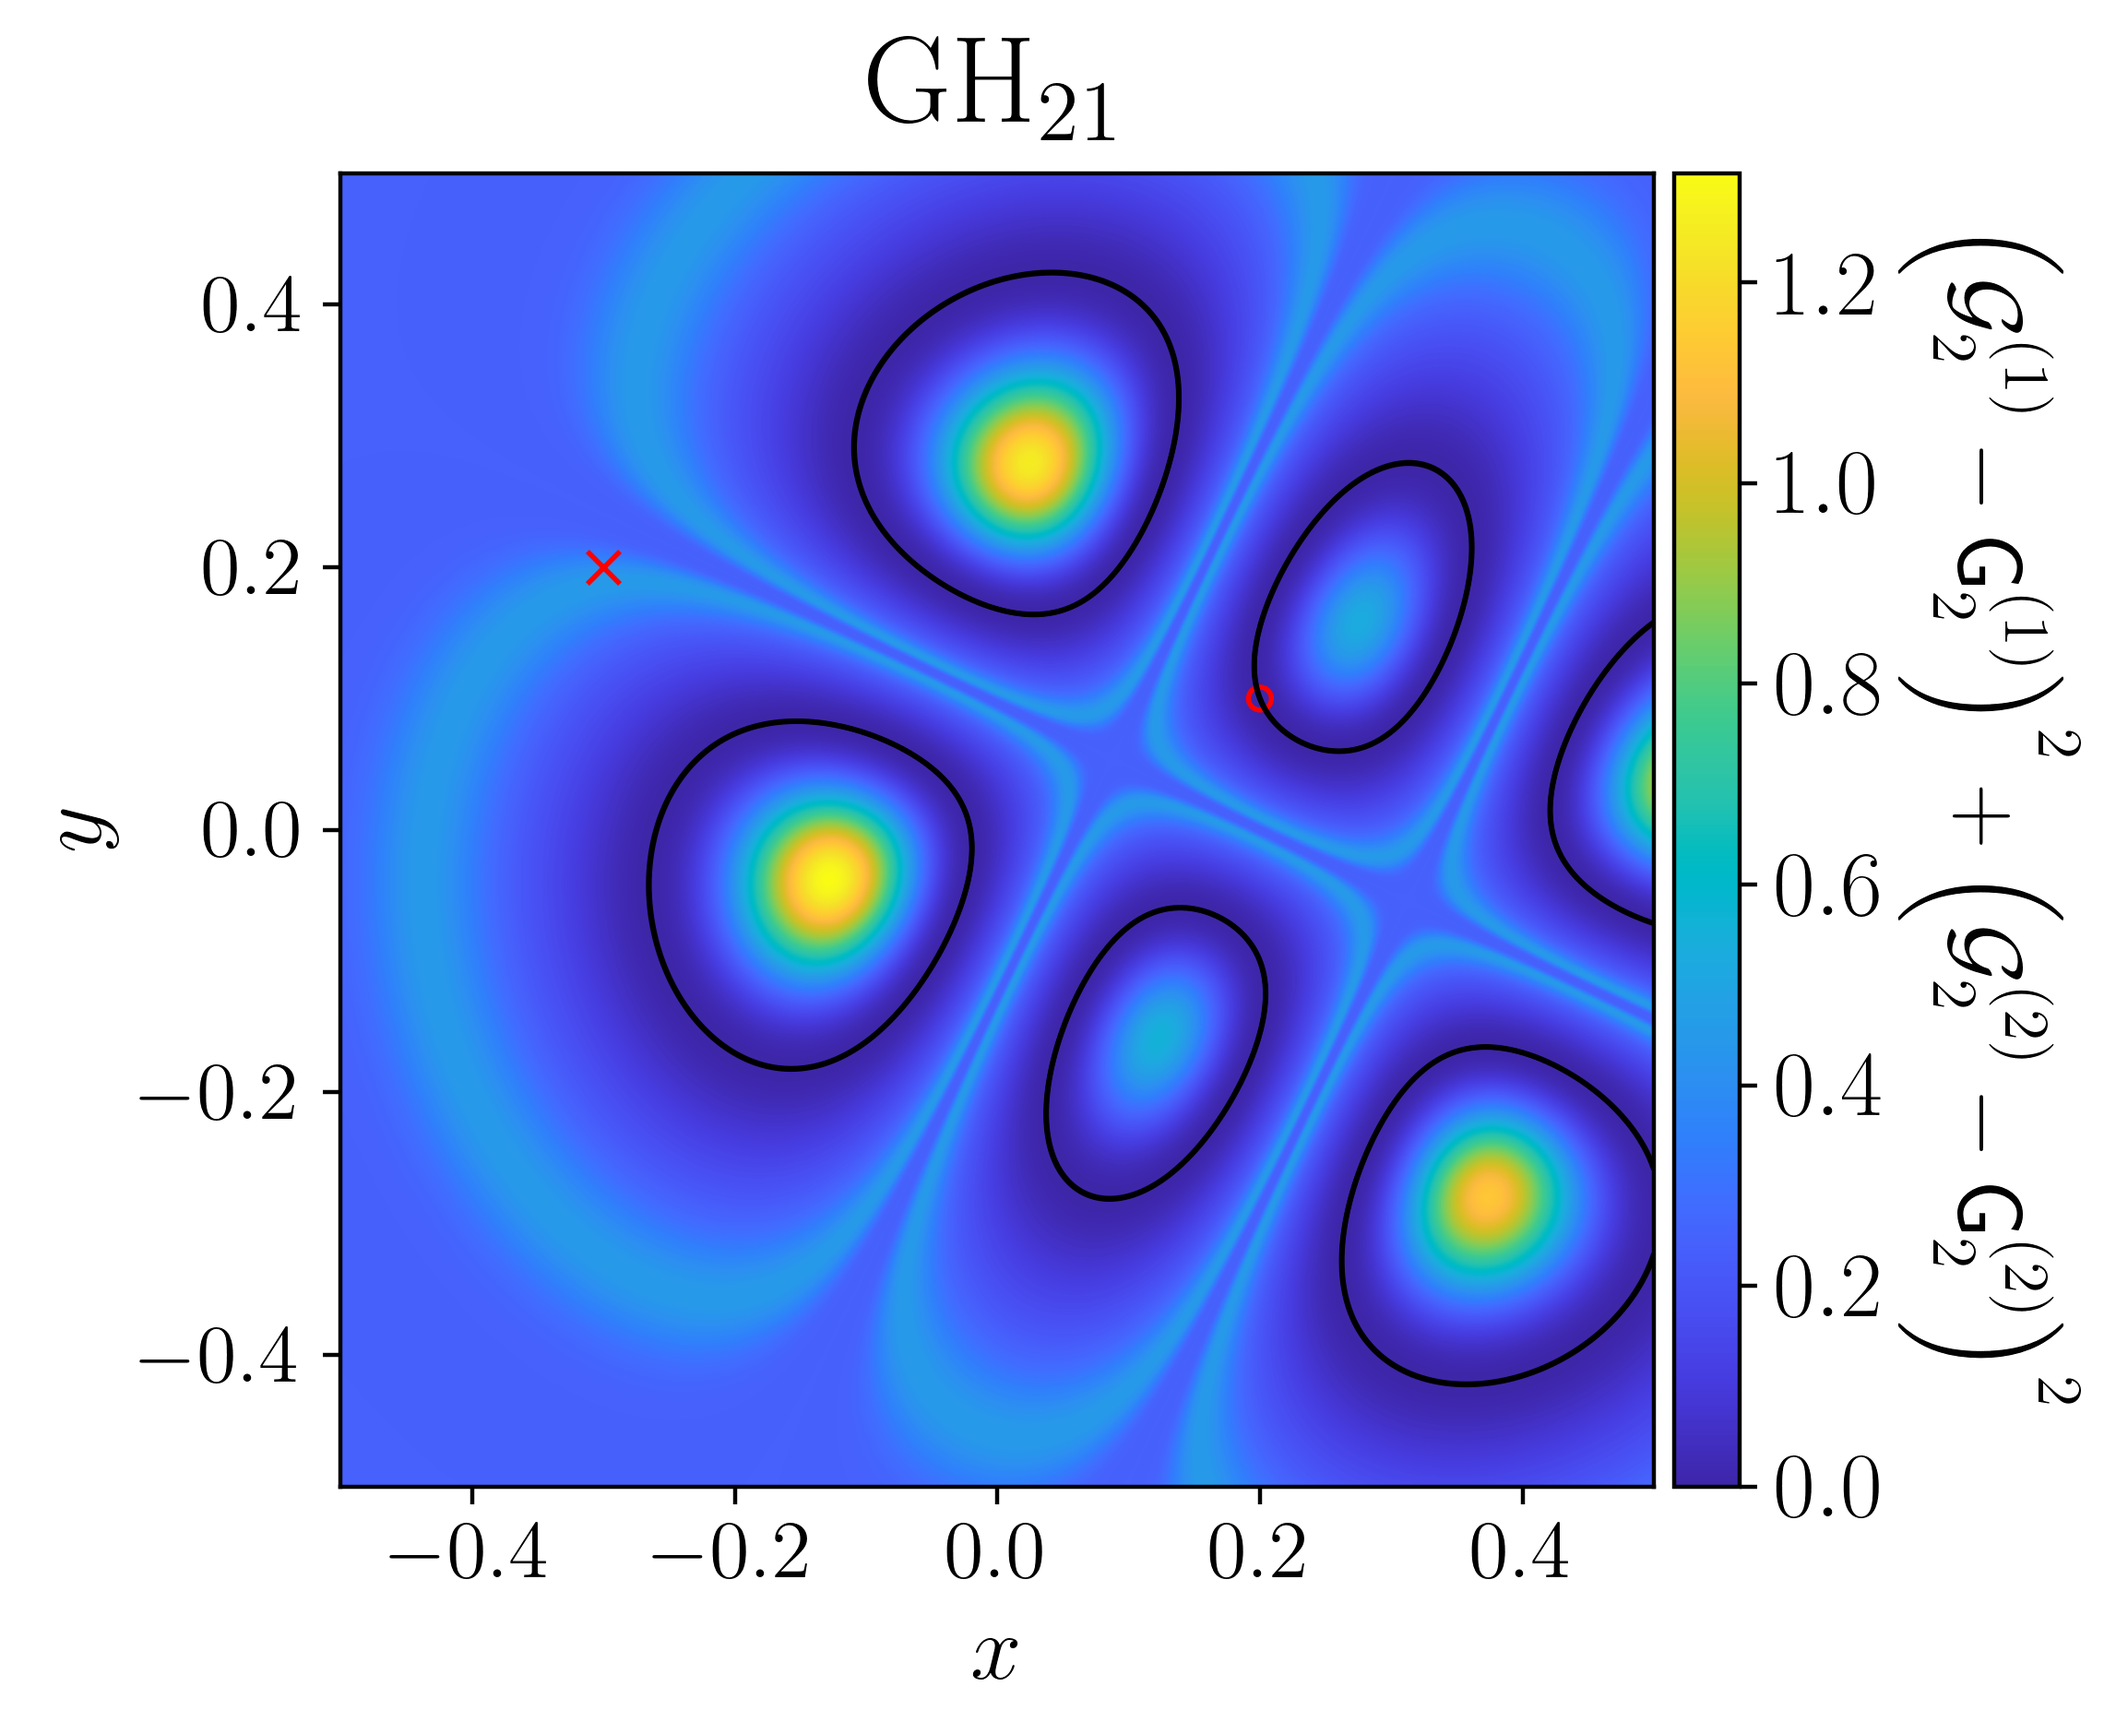
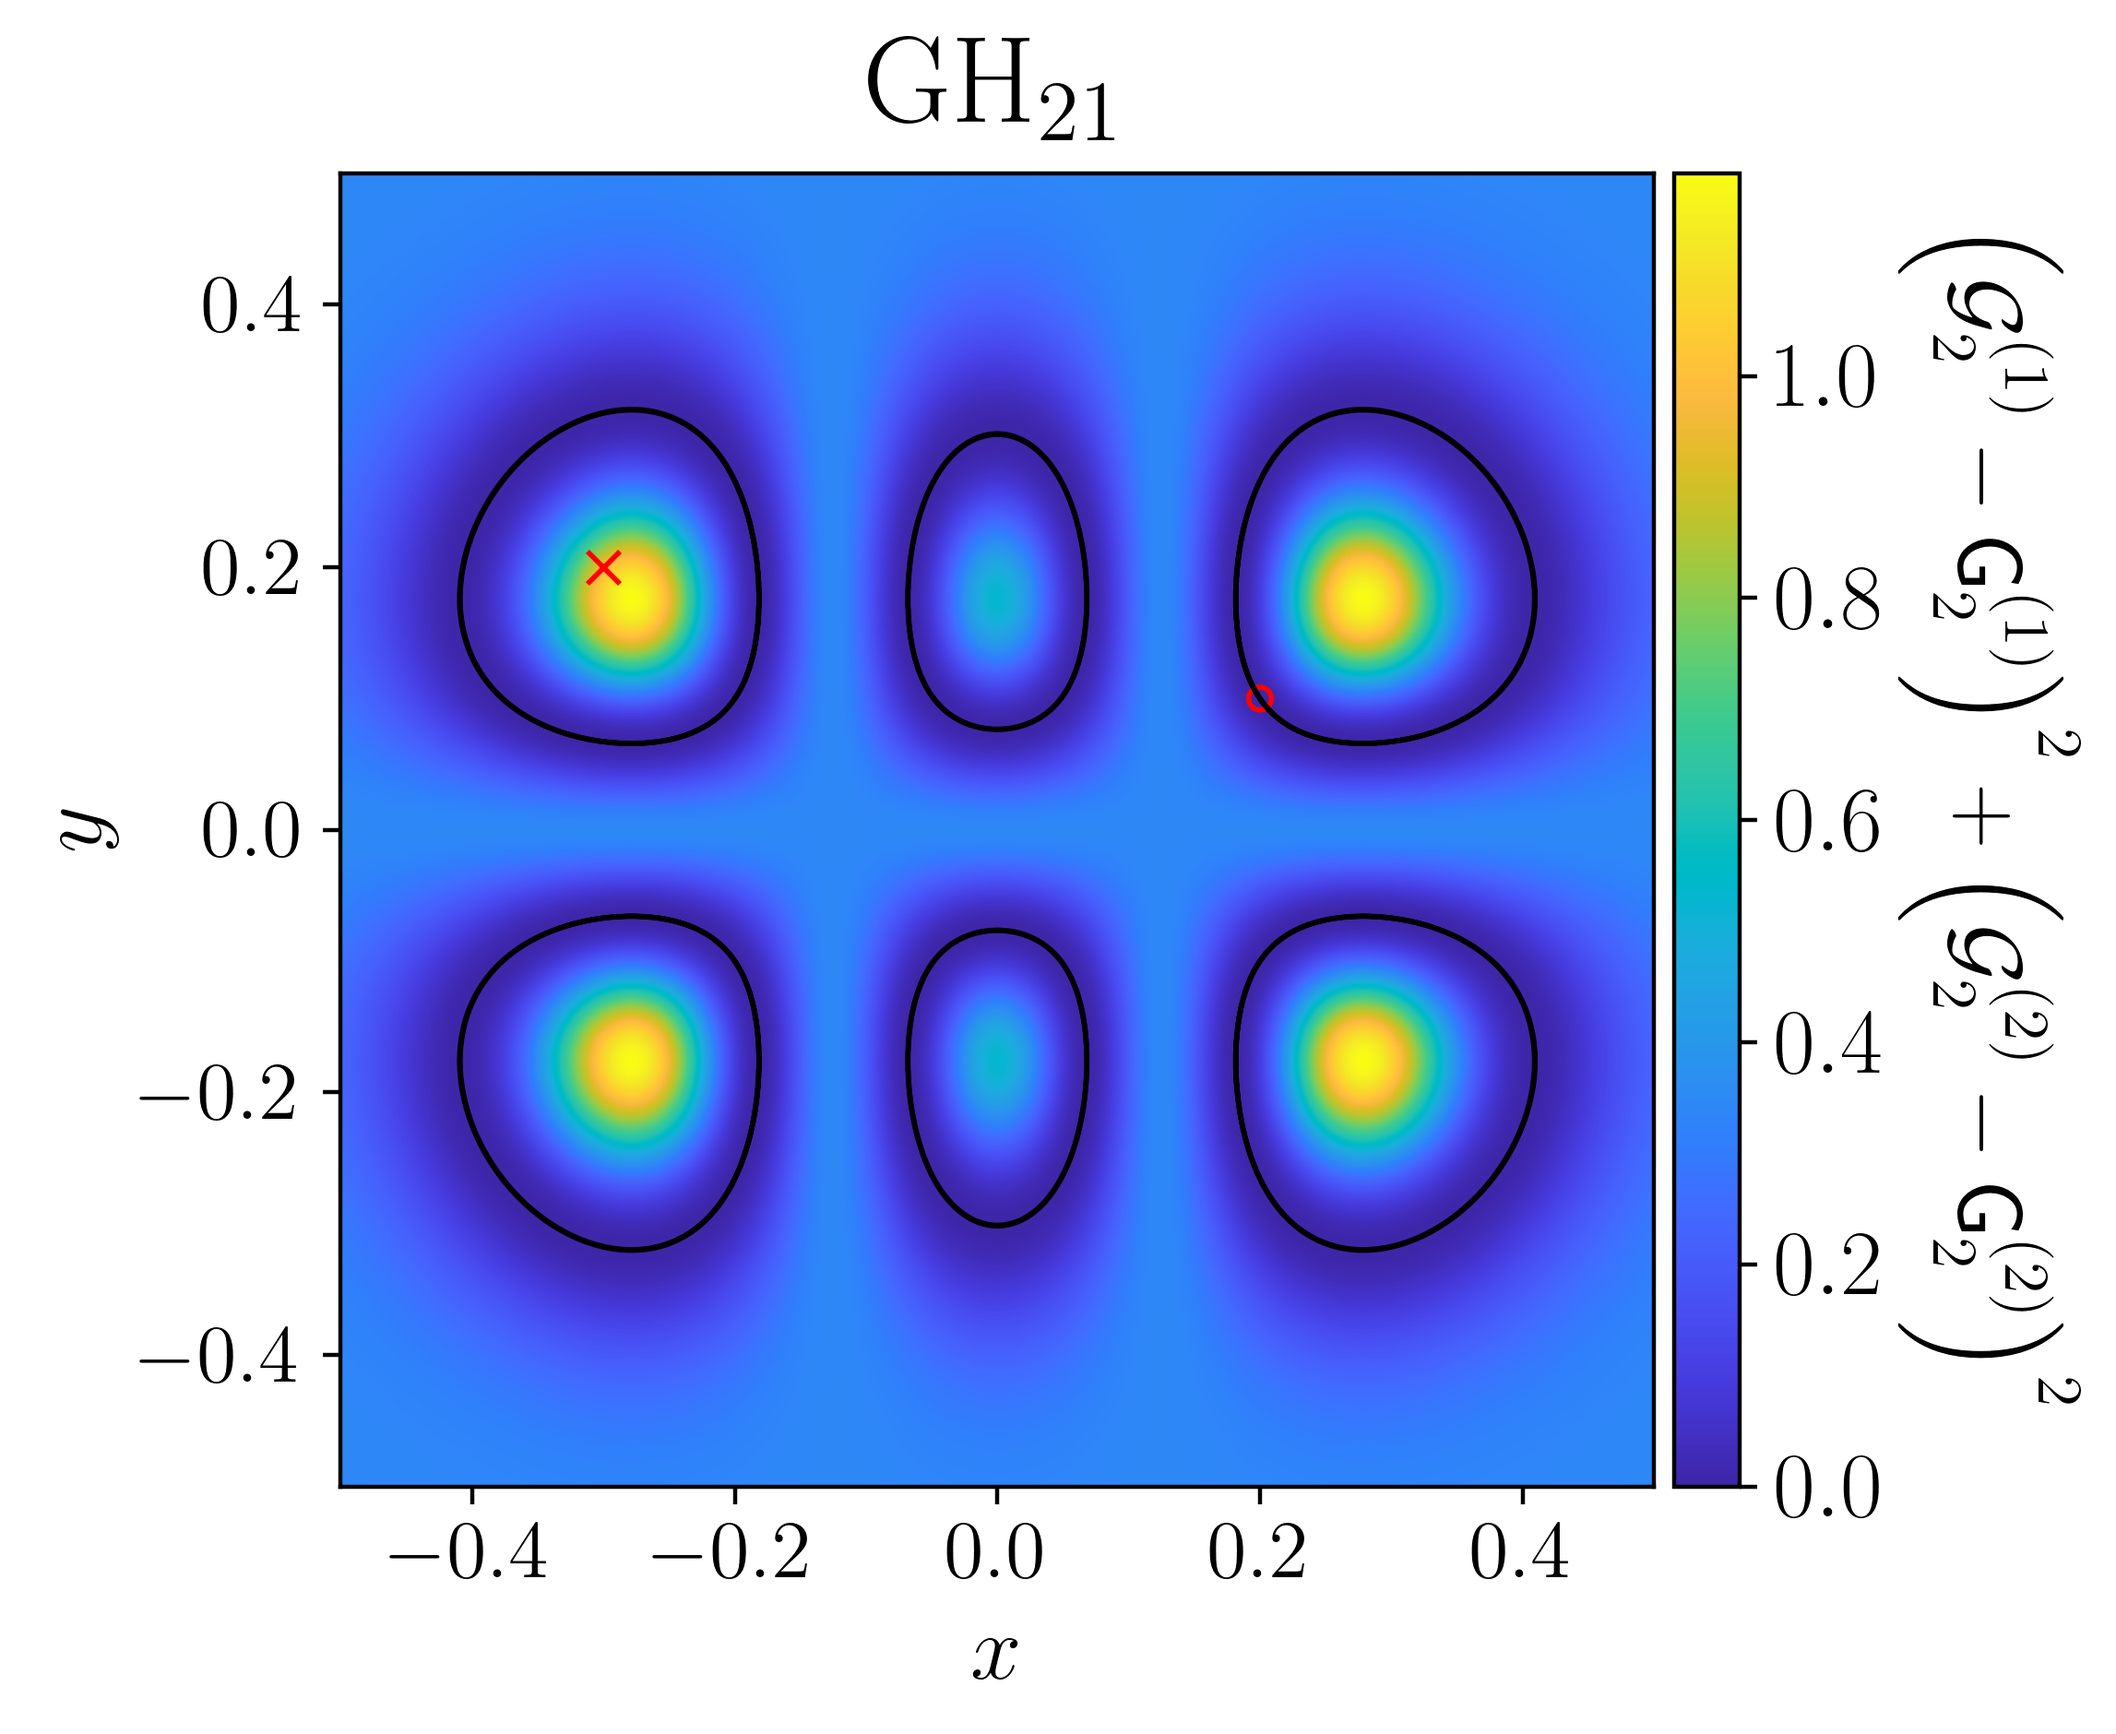
stuff

diff --git a/worboy_recreation.py b/worboy_recreation.py
@@ -77,9 +77,7 @@ def main() -> None:
             
         return np.sum((g_1_truth - g_1_guess)**2) + np.sum((g_2_truth - g_2_guess)**2)
     
-    optimization_lambda = lambda guess: rss(guess)
-    
-    trials = 200
+    trials = 1000
     
     x_opt = np.ndarray((trials,5))
     
@@ -88,6 +86,11 @@ def main() -> None:
         print(trial_idx)
         
         # print(trial_idx)
+        
+        g_1_noise = g_1_true + 0.1 * np.random.randn(3,1)
+        g_2_noise = g_2_true + 0.1 * np.random.randn(3,1)
+        
+        optimization_lambda = lambda guess: rss(guess, g_1_noise, g_2_noise)
     
         x_0 = 0.25 * np.random.randn(5,1)
         x_0[4] = 0.5
@@ -96,28 +99,30 @@ def main() -> None:
         
         # x_0 = np.array([*e_1.xy,*e_2.xy,e_2.relative_brightness])
         
-        # opt_result = minimize(
-        #     fun=optimization_lambda,
-        #     x0=x_0,
-        #     method='Nelder-Mead',
-        #     bounds=[(-1,1),(-1,1),(-1,1),(-1,1),(0,1)]
-        # )
+        opt_result = minimize(
+            fun=optimization_lambda,
+            x0=x_0,
+            method='Nelder-Mead',
+            # bounds=[(-1,1),(-1,1),(-1,1),(-1,1),(0,1)]
+        )
         
-        # x_opt[trial_idx,:] = opt_result.x
+        x_opt[trial_idx,:] = opt_result.x
         
-        x_opt[trial_idx], _, _, _, _ = fmin(func=optimization_lambda, x0=x_0, disp=False, full_output=True)
+        # x_opt[trial_idx], _, _, _, _ = fmin(func=optimization_lambda, x0=x_0, disp=False, full_output=True)
         
     print(np.mean(x_opt, axis=0))
     
+    x_opt_mean = np.mean(x_opt, axis=0)
+    
     plt.scatter(x_opt[0:,0],x_opt[0:,1], c='b', s=2., marker='.')
     plt.scatter(x_opt[0:,2],x_opt[0:,3], c='r', s=2., marker='.')
+    plt.scatter(x_opt_mean[0],x_opt_mean[1], c='b', s=20., linewidths=1, marker='+')
+    plt.scatter(x_opt_mean[2],x_opt_mean[3], c='r', s=20., linewidths=1, marker='+')
     plt.scatter(e_1.xy[0], e_1.xy[1], facecolors='none', edgecolors='b', marker='o', s=20, linewidths=1)
     plt.scatter(e_2.xy[0], e_2.xy[1], facecolors='none', edgecolors='r', marker='o', s=20, linewidths=1)
     plt.scatter(detectors[0].center[0], detectors[0].center[1], c='k', marker='x', s=20, linewidths=1)
     plt.scatter(detectors[1].center[0], detectors[1].center[1], c='k', marker='x', s=20, linewidths=1)
     plt.scatter(detectors[2].center[0], detectors[2].center[1], c='k', marker='x', s=20, linewidths=1)
-    # plt.xlim(-detector.waist/2,detector.waist/2)
-    # plt.ylim(-detector.waist/2,detector.waist/2)
     plt.xlabel(r"$x$", fontsize=18)
     plt.ylabel(r"$y$", fontsize=18)
     plt.xticks(fontsize=16)

diff --git a/off_axis_localization.py b/off_axis_localization.py
@@ -28,12 +28,11 @@ def main() -> None:
     # light structures
     
     illumination_structures = [
-        GaussHermite(3, 1, 1., 0.5, center=[-0.1,-0.1], rotation=np.pi/5),
-        GaussHermite(0, 0, 1., 0.5, center=[-0.1,-0.1], rotation=np.pi/3),
-        GaussHermite(2, 1, 1., 0.5, center=[0.2,0.0], rotation=np.pi/7),
-        GaussLaguerre(1, 3, 1., 0.5, center=[0.2,0.0], rotation=np.pi),
-        GaussLaguerre(0, 3, 1., 0.5, center=[0.0,0.2], rotation=np.pi/11),
-        GaussLaguerre(0, 2, 1., 0.5, center=[0.0,0.2], rotation=np.pi/13)
+        GaussHermite(0, 0, 1., 0.5),
+        GaussHermite(0, 1, 1., 0.5, rotation=0),
+        GaussHermite(0, 1, 1., 0.5, rotation=np.pi/6),
+        GaussHermite(0, 1, 1., 0.5, rotation=np.pi/3),
+        GaussHermite(0, 1, 1., 0.5, rotation=np.pi/2)
     ]
     
     # emitters
@@ -45,7 +44,7 @@ def main() -> None:
 
     e_2 = Emitter(
         np.array([0.2,0.1]),
-        0.5
+        1.0
     )
     
     g_1_true = np.ndarray((len(illumination_structures),1))
@@ -74,7 +73,7 @@ def main() -> None:
     
     trials = 200
     
-    x_opt = np.ndarray((trials,5))
+    x_opt = np.ndarray((trials,4))
     
     for trial_idx in range(trials):
         
@@ -82,8 +81,8 @@ def main() -> None:
         
         # print(trial_idx)
     
-        x_0 = 0.25 * np.random.randn(5,1)
-        x_0[4] = 0.5
+        x_0 = 0.25 * np.random.randn(4,1)
+        # x_0[4] = 0.5
         
         # x_0 = np.array([*e_1.xy,*e_2.xy,0.5])
         

diff --git a/isolines.py b/isolines.py
@@ -17,12 +17,11 @@ def main() -> None:
     # light structures
     
     illumination_structures = [
-        GaussHermite(3, 1, 1., 0.25, center=[-0.1,-0.1], rotation=np.pi/5),
-        GaussHermite(0, 0, 1., 0.25, center=[-0.1,-0.1], rotation=np.pi/3),
-        GaussHermite(2, 1, 1., 0.25, center=[0.2,0.0], rotation=np.pi/7),
-        GaussLaguerre(1, 3, 1., 0.25, center=[0.2,0.0], rotation=np.pi),
-        GaussLaguerre(0, 3, 1., 0.25, center=[0.0,0.2], rotation=np.pi/11),
-        GaussLaguerre(0, 2, 1., 0.25, center=[0.0,0.2], rotation=np.pi/13)
+        GaussHermite(0, 0, 1., 0.5),
+        GaussHermite(0, 1, 1., 0.5, rotation=0),
+        GaussHermite(0, 1, 1., 0.5, rotation=np.pi/6),
+        GaussHermite(0, 1, 1., 0.5, rotation=np.pi/3),
+        GaussHermite(0, 1, 1., 0.5, rotation=np.pi/2)
     ]
     
     # emitters

diff --git a/qclm.py b/qclm.py
@@ -197,7 +197,7 @@ class Solver:
         
         e_2_guess = Emitter(
             guess[2:4],
-            guess[4]
+            1# guess[4]
         )
         
         for is_idx in range(0,len(self.illumination_structures)):
